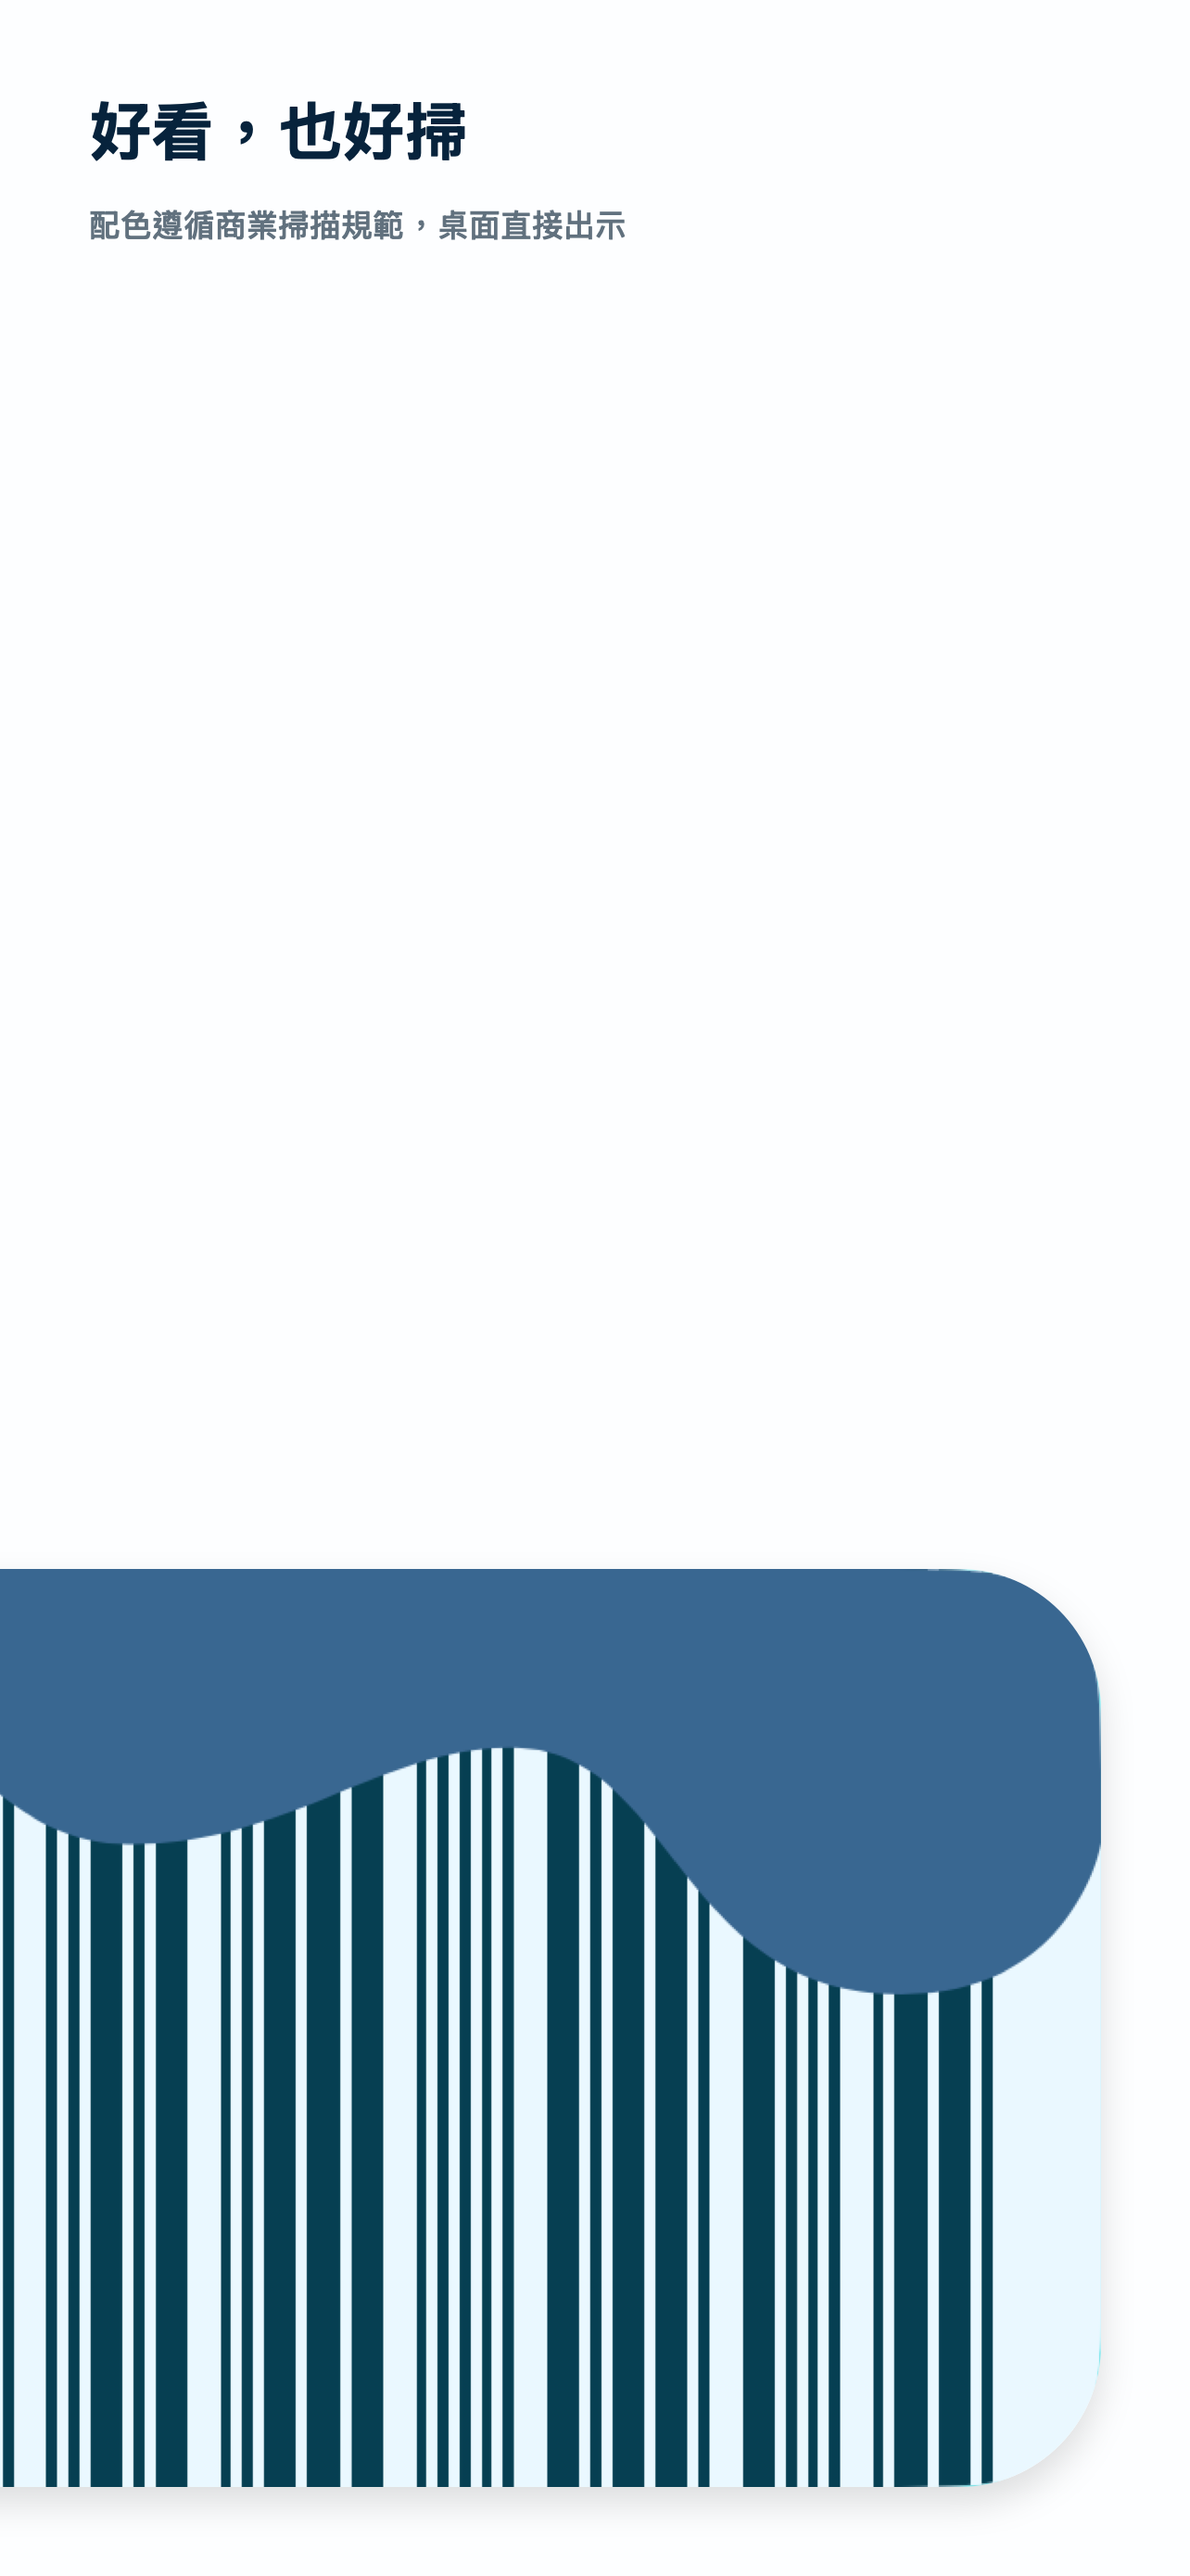
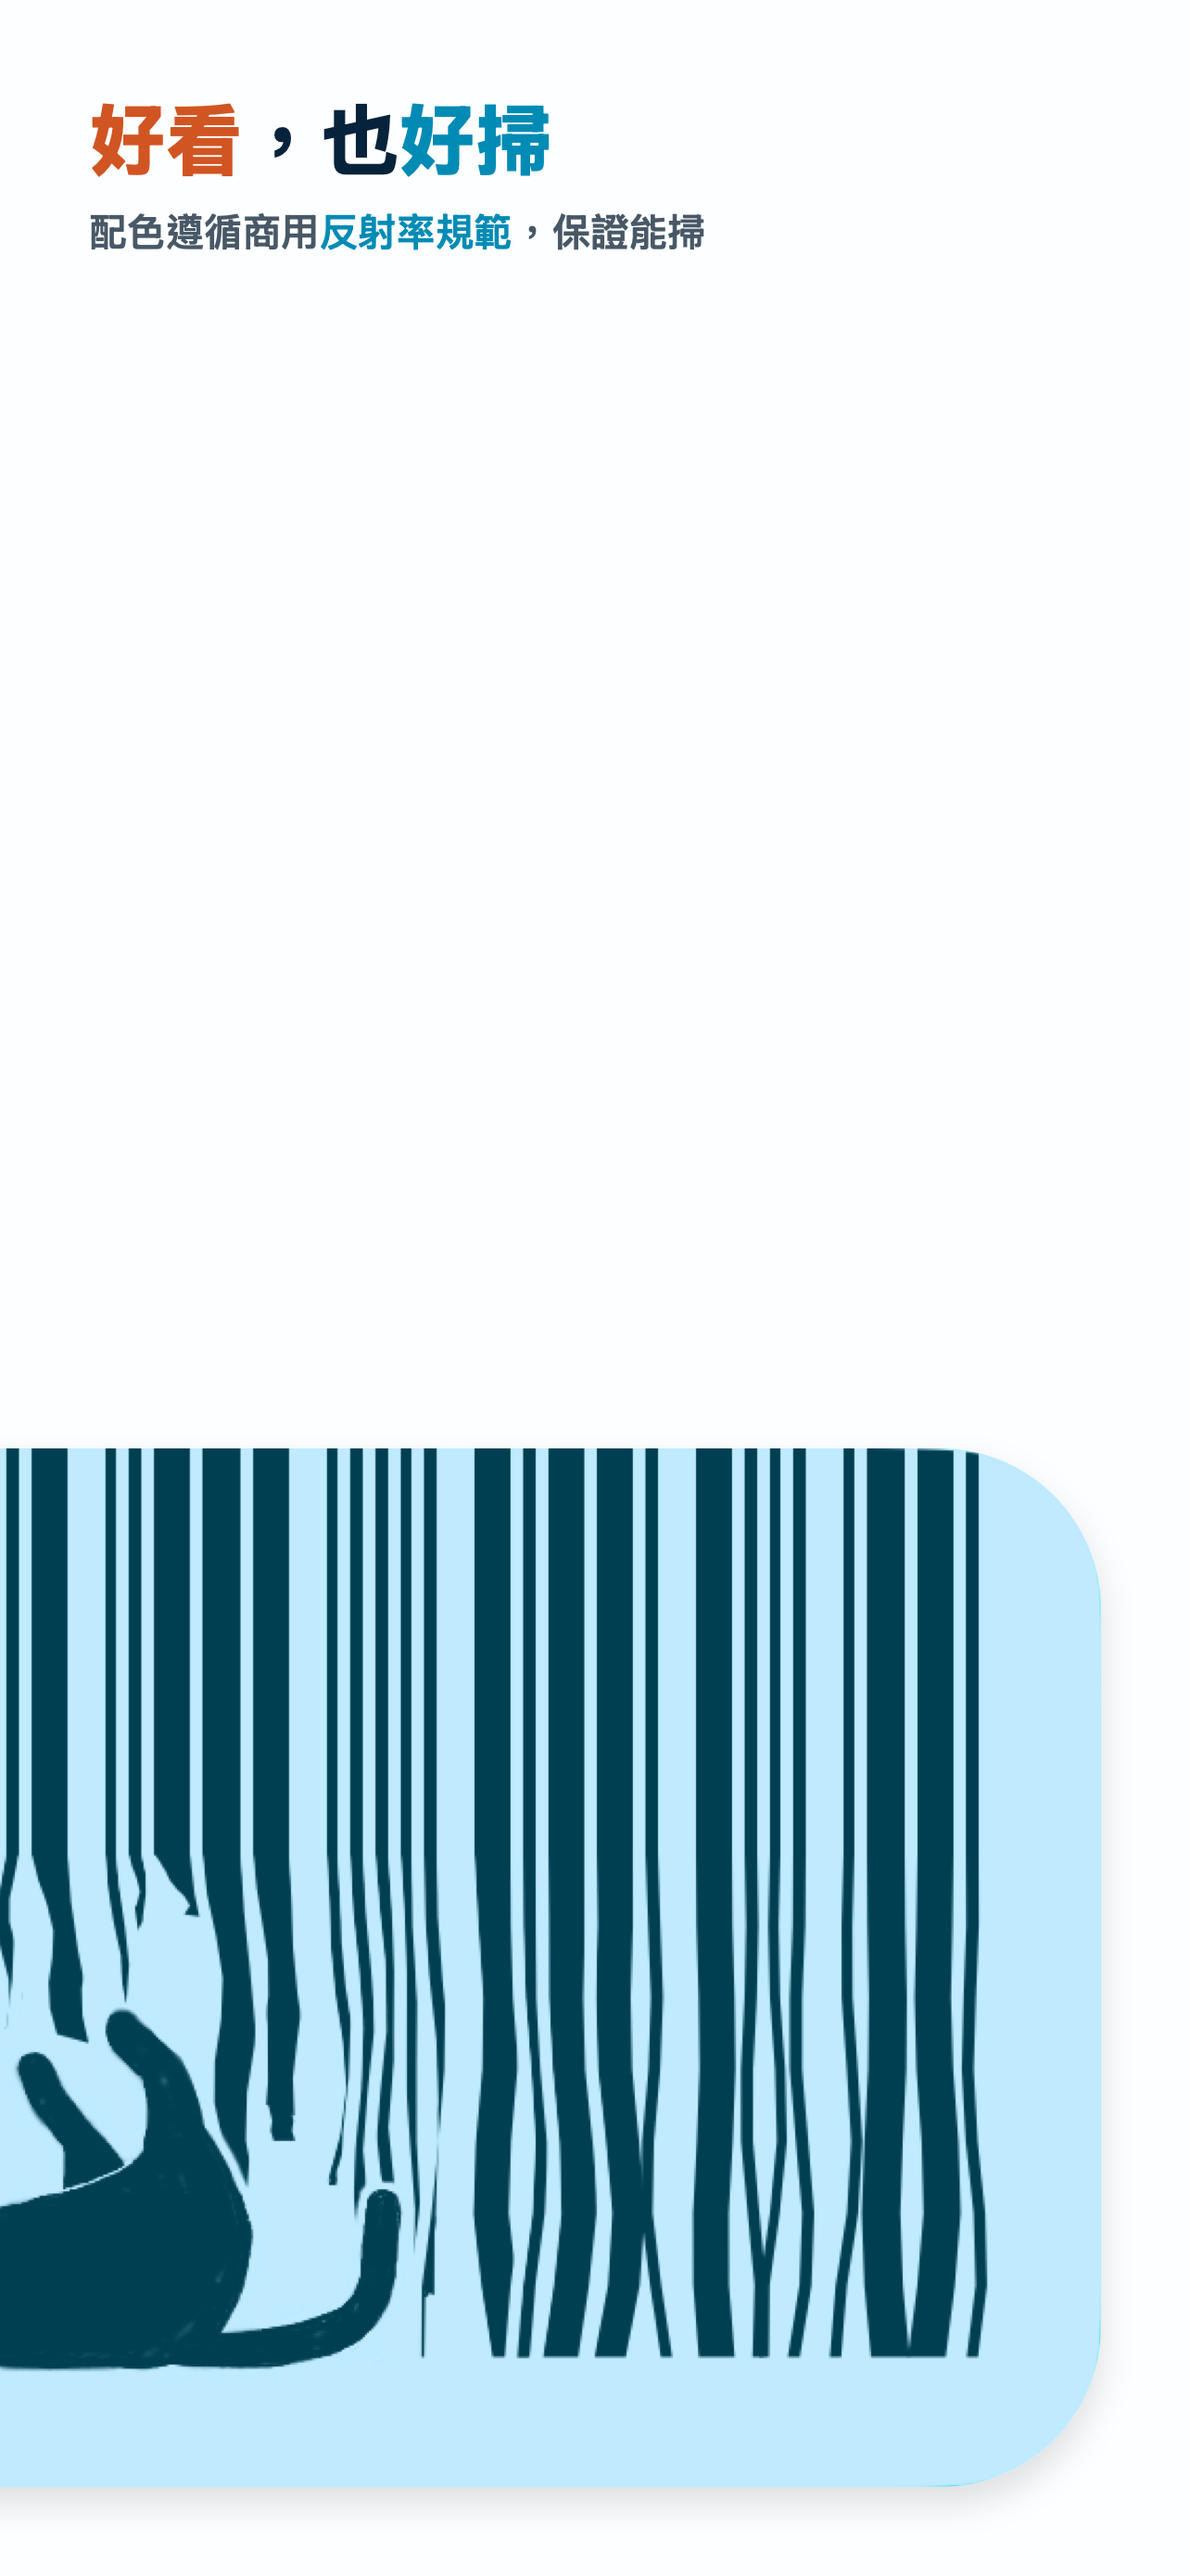
feat: refine app store screenshot composition

diff --git a/scripts/ios-compose-app-store-screenshots.swift b/scripts/ios-compose-app-store-screenshots.swift
@@ -12,7 +12,9 @@ private enum Artwork {
 
     static let background = NSColor(calibratedRed: 0.992, green: 0.996, blue: 1, alpha: 1)
     static let ink = NSColor(calibratedRed: 0.035, green: 0.102, blue: 0.180, alpha: 1)
-    static let muted = NSColor(calibratedRed: 0.310, green: 0.365, blue: 0.420, alpha: 1)
+    static let muted = NSColor(calibratedRed: 0.220, green: 0.275, blue: 0.330, alpha: 1)
+    static let logoBlueText = NSColor(calibratedRed: 0.020, green: 0.470, blue: 0.650, alpha: 1)
+    static let logoOrangeText = NSColor(calibratedRed: 0.770, green: 0.250, blue: 0.105, alpha: 1)
 }
 
 private struct Arguments {
@@ -100,19 +102,19 @@ private struct Composer {
 
         drawMessages()
 
-        let widgetWidth: CGFloat = 2_100
-        let widgetHeight: CGFloat = 990
+        let widgetWidth: CGFloat = 2_376
+        let widgetHeight: CGFloat = 1_120
         drawWidget(
-            image: catCapture,
+            image: waveCapture,
             destinationFromTop: CGRect(
                 x: Artwork.padding,
-                y: 560,
+                y: Artwork.padding,
                 width: widgetWidth,
                 height: widgetHeight
             )
         )
         drawWidget(
-            image: waveCapture,
+            image: catCapture,
             destinationFromTop: CGRect(
                 x: CGFloat(Artwork.width) - Artwork.padding - widgetWidth,
                 y: CGFloat(Artwork.height) - Artwork.padding - widgetHeight,
@@ -160,25 +162,51 @@ private struct Composer {
 
     private func drawMessages() {
         let messages = [
-            ("從桌布提取配色", "載具融入桌布色調，出示不突兀"),
-            ("貓貓或顏料水滴", "兩種裝飾，都保留完整條碼"),
-            ("好看，也好掃", "配色遵循商業掃描規範，桌面直接出示"),
+            (
+                title: "提取桌布配色",
+                subtitle: "載具小工具不再破壞桌布氛圍",
+                titleTop: CGFloat(2_430),
+                subtitleTop: CGFloat(2_556),
+                titleAccents: [("桌布配色", Artwork.logoOrangeText)],
+                subtitleAccents: [("小工具", Artwork.logoOrangeText)]
+            ),
+            (
+                title: "選擇裝飾",
+                subtitle: "別擔心，貓貓會保留安全可掃範圍",
+                titleTop: CGFloat(1_260),
+                subtitleTop: CGFloat(1_380),
+                titleAccents: [("裝飾", Artwork.logoOrangeText)],
+                subtitleAccents: [("貓貓", Artwork.logoBlueText)]
+            ),
+            (
+                title: "好看，也好掃",
+                subtitle: "配色遵循商用反射率規範，保證能掃",
+                titleTop: CGFloat(96),
+                subtitleTop: CGFloat(222),
+                titleAccents: [
+                    ("好看", Artwork.logoOrangeText),
+                    ("好掃", Artwork.logoBlueText),
+                ],
+                subtitleAccents: [("反射率規範", Artwork.logoBlueText)]
+            ),
         ]
 
         for (index, message) in messages.enumerated() {
             let panelX = CGFloat(index * Artwork.panelWidth) + Artwork.padding
             let textWidth = CGFloat(Artwork.panelWidth) - Artwork.padding * 2
-            drawText(
-                message.0,
-                topRect: CGRect(x: panelX, y: Artwork.padding, width: textWidth, height: 104),
-                font: .systemFont(ofSize: 72, weight: .bold),
-                color: Artwork.ink
+            drawStyledText(
+                message.title,
+                topRect: CGRect(x: panelX, y: message.titleTop, width: textWidth, height: 112),
+                font: .systemFont(ofSize: 88, weight: .black),
+                color: Artwork.ink,
+                accents: message.titleAccents
             )
-            drawText(
-                message.1,
-                topRect: CGRect(x: panelX, y: 220, width: textWidth, height: 64),
-                font: .systemFont(ofSize: 36, weight: .medium),
-                color: Artwork.muted
+            drawStyledText(
+                message.subtitle,
+                topRect: CGRect(x: panelX, y: message.subtitleTop, width: textWidth, height: 72),
+                font: .systemFont(ofSize: 44, weight: .semibold),
+                color: Artwork.muted,
+                accents: message.subtitleAccents
             )
         }
     }
@@ -217,16 +245,17 @@ private struct Composer {
         NSGraphicsContext.restoreGraphicsState()
     }
 
-    private func drawText(
+    private func drawStyledText(
         _ text: String,
         topRect: CGRect,
         font: NSFont,
-        color: NSColor
+        color: NSColor,
+        accents: [(String, NSColor)]
     ) {
         let paragraph = NSMutableParagraphStyle()
         paragraph.alignment = .left
         paragraph.lineBreakMode = .byTruncatingTail
-        let attributed = NSAttributedString(
+        let attributed = NSMutableAttributedString(
             string: text,
             attributes: [
                 .font: font,
@@ -234,6 +263,15 @@ private struct Composer {
                 .paragraphStyle: paragraph,
             ]
         )
+
+        for accent in accents {
+            let range = (text as NSString).range(of: accent.0)
+            guard range.location != NSNotFound else {
+                continue
+            }
+            attributed.addAttribute(.foregroundColor, value: accent.1, range: range)
+        }
+
         attributed.draw(in: rectFromTop(topRect))
     }
 

diff --git a/design-qa.md b/design-qa.md
@@ -1,26 +1,26 @@
 # App Store Screenshot Design QA
 
-- Source visual direction: `/Users/hsi/.codex/generated_images/019f7da1-42a5-7fe2-9dbd-6bb1da1ff0cb/exec-a19a4f11-df5d-490d-adca-d62d614c8957.png`, superseded where the latest user brief explicitly requests a two-widget-only composition.
+- Source visual truth: `/tmp/colorinvo-v2-panorama.png`, revised by the latest user brief to swap the two widgets, center each decoration on a panel seam, use logo-orange and logo-blue scan-safe palettes, and distribute copy bottom / middle / top.
 - Implementation screenshots: `/Users/hsi/Projects/Apps/Mobile/ColorInvo/assets/screenshots/colorinvo-iphone-6-5-01-wallpaper-palette.png`, `/Users/hsi/Projects/Apps/Mobile/ColorInvo/assets/screenshots/colorinvo-iphone-6-5-02-decorations.png`, `/Users/hsi/Projects/Apps/Mobile/ColorInvo/assets/screenshots/colorinvo-iphone-6-5-03-scanner-widget.png`
-- Viewport: three adjacent 1284 × 2778 App Store screenshots; combined panorama 3852 × 2778
-- State: Traditional Chinese showcase data, light appearance, cat and paint widget variants
-- Full-view comparison evidence: `/tmp/colorinvo-app-store-design-qa.png`
-- Focused comparison evidence: `/tmp/colorinvo-widget-cat-inner-490.png` and `/tmp/colorinvo-widget-wave-inner-490.png` verify that the compositor isolates the widgets from the in-app preview background.
+- Viewport: three adjacent 1284 × 2778 App Store screenshots; combined panorama 3852 × 2778.
+- State: Traditional Chinese showcase data, light appearance, orange paint widget and blue cat widget.
+- Full-view comparison evidence: `/tmp/colorinvo-v2-v3-comparison.png`.
+- Focused comparison evidence: `/tmp/colorinvo-v3-standalone-contact.png` verifies the three isolated-card crops and the center-card composition.
 
 ## Findings
 
 - No actionable P0, P1, or P2 differences remain.
-- Typography: each card uses the same left-aligned 72 px headline and 36 px supporting line, starting at the same 96 px horizontal and top safe area.
-- Spacing and layout: the panorama uses a shared 96 px outer inset. The cat widget crosses cards 1–2 from the upper-left; the paint widget crosses cards 2–3 and ends 96 px from the lower-right.
-- Colors: the off-white canvas and native widget colors are unchanged across card boundaries.
-- Image quality: only the two real widget captures remain. They preserve the native 329:155 widget ratio and rounded mask; no app preview background, standalone barcode, palette UI, cat asset, or scan badge is composited separately.
-- Copy: each message describes the visible widget outcome—wallpaper-aware color, the two decoration choices, and scan-safe desktop access.
+- Fonts and typography: headlines increased from 72 px bold to 88 px black; supporting text increased from 36 px medium to 44 px semibold. Selected phrases use darker accessible derivatives of the logo orange and blue, while the remaining text keeps the established navy hierarchy. All copy remains on one line without truncation.
+- Spacing and layout rhythm: the orange paint widget begins 96 px from the panorama's top-left and the blue cat widget ends 96 px from the bottom-right. Both retain their native 329:155 ratio. Their frames are centered on the first and second panel seams respectively. Card 1 copy sits at the bottom, card 2 copy occupies the space between widgets, and card 3 copy sits at the top.
+- Colors and visual tokens: the decoration uses the exact app-icon orange `#FF9770`; the blue widget uses a scanner-safe tint derived from the app-icon blue `#70D6FF`. Under the app's red-light reflectance model, the blue pair has background/bar reflectance 0.749/0.000 and symbol contrast 0.749; the orange pair has 1.000/0.024 and symbol contrast 0.976. Both exceed the 0.70 commercial guidance threshold.
+- Image quality and asset fidelity: both elements are real widget captures, not reconstructed illustrations. Their native masks, barcode geometry, cat damage treatment, paint shape, and shadows remain sharp at 1284 × 2778 output.
+- Copy and content: the three supplied messages appear verbatim and are positioned in the requested bottom / middle / top sequence.
 
 ## Comparison History
 
-1. The prior implementation had a P1 intent mismatch: five separate visual elements competed with the three messages. The composition was reduced to exactly two widgets.
-2. The first two-widget pass had a P2 asset-fidelity issue: a strip of the in-app preview background remained inside the widget crop. The source crop was moved to the true widget bounds and clipped to the native rounded shape.
-3. Post-fix comparison found no remaining P0, P1, or P2 issues.
+1. The previous two-widget version used one blue palette, placed the cat upper-left and paint lower-right, and aligned all copy at the top.
+2. The revised implementation swaps the widgets, introduces brand-derived scan-safe orange and blue states, centers each widget on its seam, and redistributes the copy to use the negative space.
+3. The full panorama and isolated-card comparison found no remaining P0, P1, or P2 issues.
 
 ## Open Questions
 
@@ -28,14 +28,16 @@
 
 ## Implementation Checklist
 
-- [x] Apply one shared four-side padding system.
-- [x] Use only the cat and paint widgets.
-- [x] Span the widgets diagonally across cards 1–2 and 2–3.
-- [x] Rewrite all copy around the visible widget intent.
-- [x] Verify 1284 × 2778 output dimensions and isolated-card readability.
+- [x] Swap paint and cat widget positions.
+- [x] Center both widget frames on their respective seams.
+- [x] Preserve the native widget aspect ratio and shared 96 px outer inset.
+- [x] Use distinct orange and blue brand palettes without violating commercial reflectance guidance.
+- [x] Place card copy at the bottom, between the widgets, and at the top.
+- [x] Increase font size and weight and add selective brand-color emphasis.
+- [x] Verify all three 1284 × 2778 outputs and standalone crops.
 
 ## Follow-up Polish
 
-- English localization can reuse the same geometry with a smaller headline scale where needed.
+- None required for this pass.
 
 final result: passed
